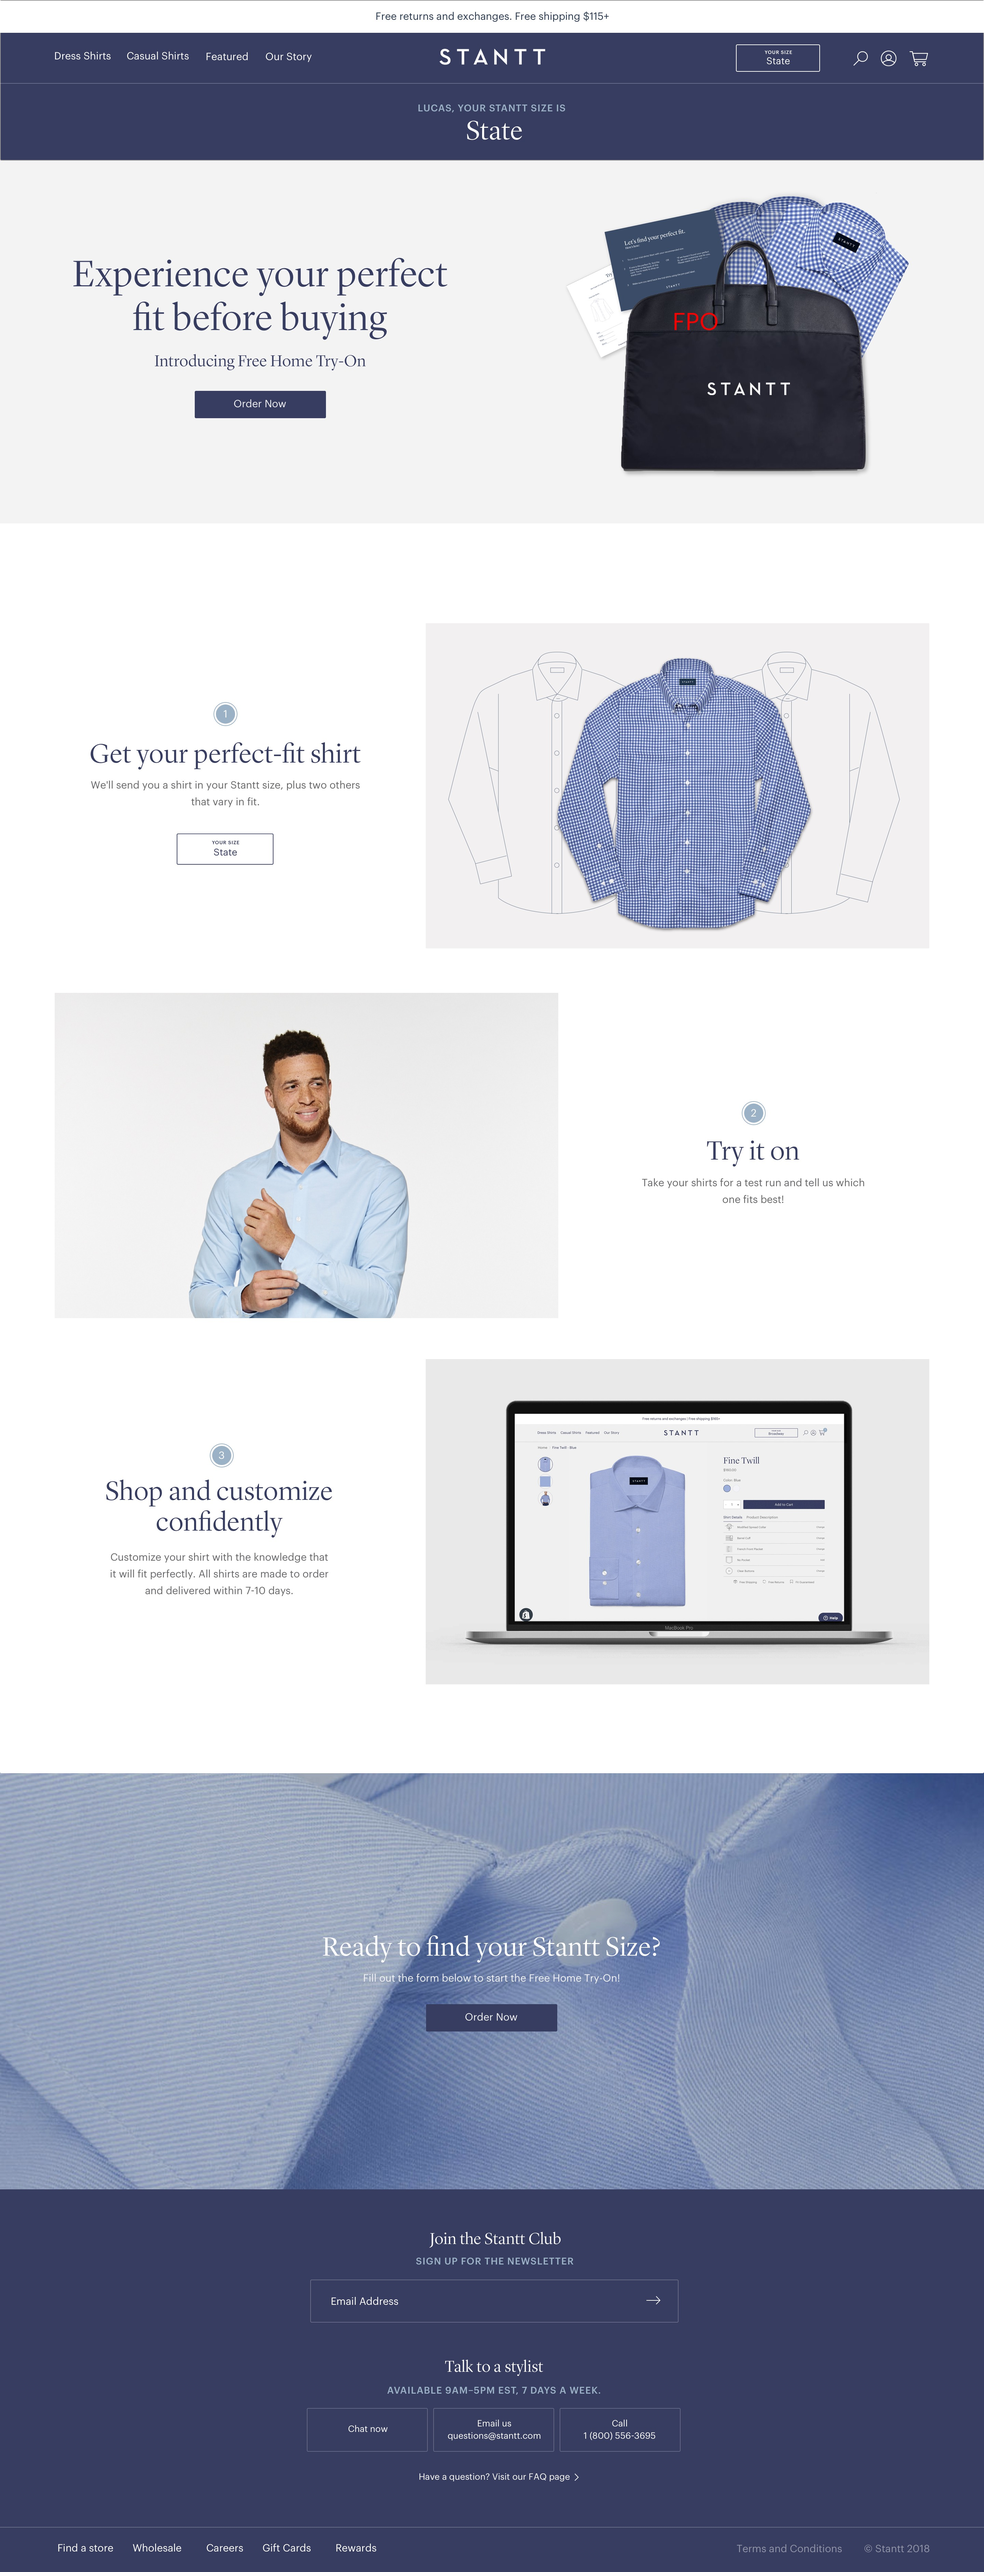
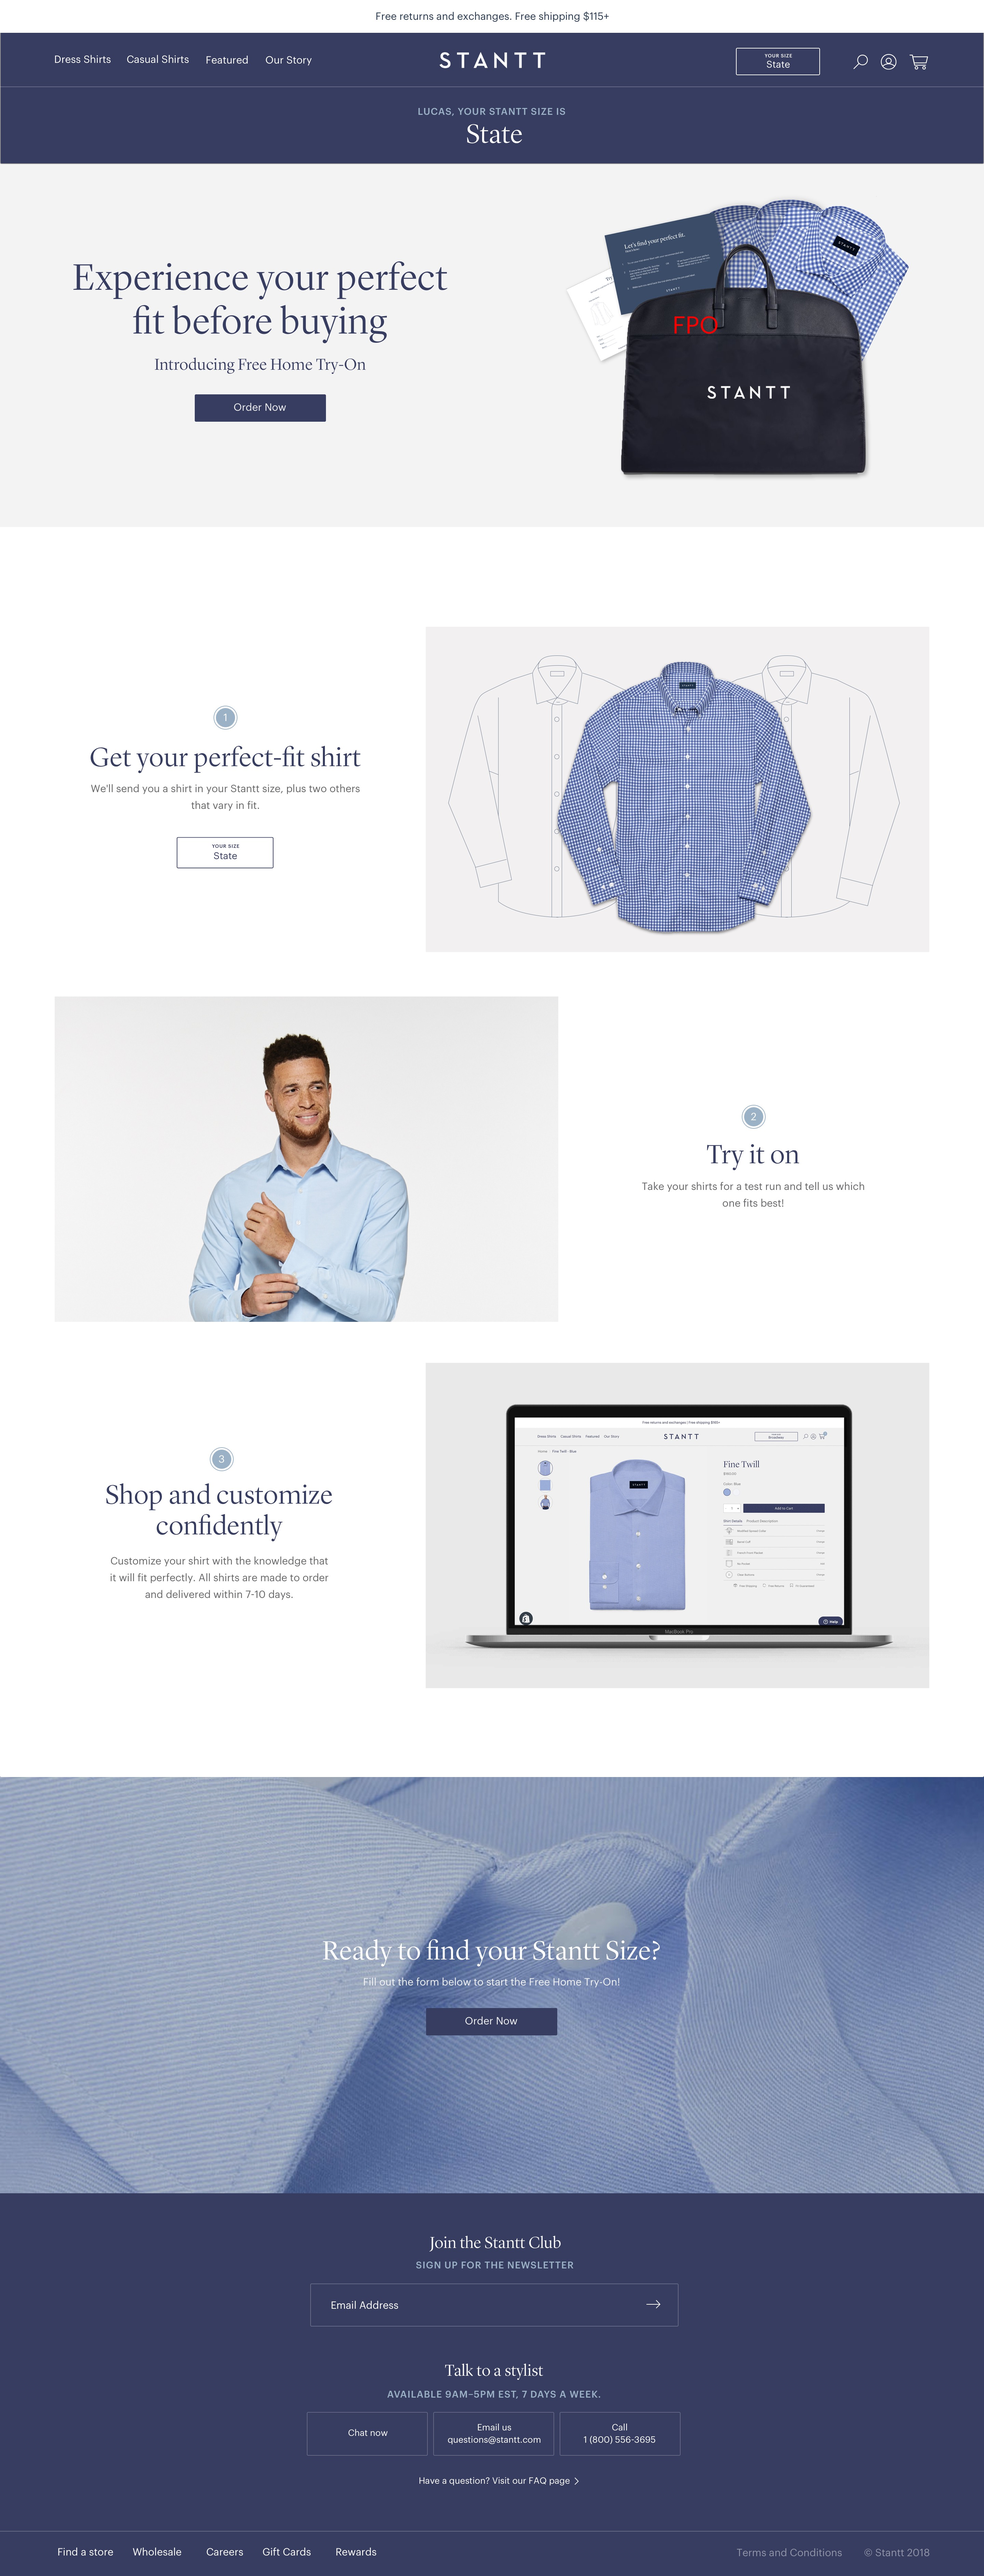
13

diff --git a/stantt_freetryon_quiz/stantt_freetryon_quiz.hyperesources/stanttfreetryonquiz_hype_generated_script.js b/stantt_freetryon_quiz/stantt_freetryon_quiz.hyperesources/stanttfreetryonquiz_hype_generated_script.js
@@ -3,5 +3,5 @@
 (function(){(function k(){function l(a,b,d){var c=!1;null==window[a]&&(null==window[b]?(window[b]=[],window[b].push(k),a=document.getElementsByTagName("head")[0],b=document.createElement("script"),c=h,false==!0&&(c=""),b.type="text/javascript",b.src=c+"/"+d,a.appendChild(b)):window[b].push(k),c=!0);return c}var h="stantt_freetryon_quiz.hyperesources",c="stantt_freetryon_quiz",e="stanttfreetryonquiz_hype_container";if(false==!1)try{for(var f=document.getElementsByTagName("script"),
 a=0;a<f.length;a++){var b=f[a].src,d=null!=b?b.indexOf("/stanttfreetryonquiz_hype_generated_script.js"):-1;if(-1!=d){h=b.substr(0,d);break}}}catch(n){}if(false==!1&&(a=navigator.userAgent.match(/MSIE (\d+\.\d+)/),a=parseFloat(a&&a[1])||null,a=l("HYPE_596","HYPE_dtl_596",!0==(null!=a&&10>a||false==!0)?"HYPE-596.full.min.js":"HYPE-596.thin.min.js"),false==!0&&(a=a||l("HYPE_w_596","HYPE_wdtl_596","HYPE-596.waypoints.min.js")),a))return;f=window.HYPE.documents;
 if(null!=f[c]){b=1;a=c;do c=""+a+"-"+b++;while(null!=f[c]);d=document.getElementsByTagName("div");b=!1;for(a=0;a<d.length;a++)if(d[a].id==e&&null==d[a].getAttribute("HYP_dn")){var b=1,g=e;do e=""+g+"-"+b++;while(null!=document.getElementById(e));d[a].id=e;b=!0;break}if(!1==b)return}b=[];b=[];d={};g={};for(a=0;a<b.length;a++)try{g[b[a].identifier]=b[a].name,d[b[a].name]=eval("(function(){return "+b[a].source+"})();")}catch(m){window.console&&window.console.log(m),d[b[a].name]=
-function(){}}a=new HYPE_596(c,e,{"1":{p:1,n:"02%20%281%29.gif",g:"49",t:"@1x"},"-2":{n:"blank.gif"},"-1":{n:"PIE.htc"},"2":{p:1,n:"Home%20Try-on_Opt1_Sizereveal__2x__2x.jpg",g:"52",t:"@2x"},"0":{p:1,n:"customize.gif",g:"39",t:"@1x"}},h,[],d,[{n:"Untitled Scene",o:"1",X:[0]}],[{o:"3",p:"600px",cA:false,Y:1440,Z:3640,L:[],c:"#FFFFFF",bY:1,d:1440,U:{},T:{kTimelineDefaultIdentifier:{i:"kTimelineDefaultIdentifier",n:"Main Timeline",z:0,b:[],a:[],f:30}},bZ:180,O:["57","54","53","56","55"],n:"Untitled Layout","_":0,v:{"54":{h:"49",p:"no-repeat",x:"visible",a:0,q:"100% 100%",b:-86,j:"absolute",bF:"53",z:1,k:"div",dB:"img",d:612,c:692,r:"inline"},"57":{h:"52",p:"no-repeat",x:"visible",a:-1,q:"100% 100%",b:1,j:"absolute",dB:"img",z:2,k:"div",c:1440.26,d:3643,r:"inline"},"53":{k:"div",x:"hidden",c:692,d:509,z:3,a:748,j:"absolute",b:229},"56":{h:"39",p:"no-repeat",x:"visible",a:-18,q:"100% 100%",b:-3,j:"absolute",bF:"55",z:1,k:"div",dB:"img",d:450,c:765,r:"inline"},"55":{k:"div",x:"hidden",c:726,d:443,z:9,a:628,j:"absolute",b:1936}}}],{},g,{},null,false,true,-1,true,true,false,true);f[c]=a.API;document.getElementById(e).setAttribute("HYP_dn",
+function(){}}a=new HYPE_596(c,e,{"1":{p:1,n:"02%20%281%29.gif",g:"49",t:"@1x"},"-2":{n:"blank.gif"},"-1":{n:"PIE.htc"},"2":{p:1,n:"Home%20Try-on_Opt1_Sizereveal__2x__2x.jpg",g:"52",t:"@2x"},"0":{p:1,n:"customize.gif",g:"39",t:"@1x"}},h,[],d,[{n:"Untitled Scene",o:"1",X:[0]}],[{o:"3",p:"600px",cA:false,Y:1440,Z:3640,L:[],c:"#FFFFFF",bY:1,d:1440,U:{},T:{kTimelineDefaultIdentifier:{i:"kTimelineDefaultIdentifier",n:"Main Timeline",z:0,b:[],a:[],f:30}},bZ:180,O:["57","54","53","56","55"],n:"Untitled Layout","_":0,v:{"54":{h:"49",p:"no-repeat",x:"visible",a:0,q:"100% 100%",b:-86,j:"absolute",bF:"53",z:1,k:"div",dB:"img",d:612,c:692,r:"inline"},"57":{h:"52",p:"no-repeat",x:"visible",a:-1,q:"100% 100%",b:1,j:"absolute",dB:"img",z:2,k:"div",c:1440.26,d:3643,r:"inline"},"53":{k:"div",x:"hidden",c:692,d:509,z:3,a:748,j:"absolute",b:235},"56":{h:"39",p:"no-repeat",x:"visible",a:-18,q:"100% 100%",b:-3,j:"absolute",bF:"55",z:1,k:"div",dB:"img",d:450,c:765,r:"inline"},"55":{k:"div",x:"hidden",c:726,d:443,z:9,a:628,j:"absolute",b:1937}}}],{},g,{},null,false,true,-1,true,true,false,true);f[c]=a.API;document.getElementById(e).setAttribute("HYP_dn",
 c);a.z_o(this.body)})();})();

diff --git a/stantt_freetryon_quiz/index.html b/stantt_freetryon_quiz/index.html
@@ -24,7 +24,7 @@
 	<!-- copy these lines to your document: -->
 
 	<div id="stanttfreetryonquiz_hype_container" style="margin:auto;position:relative;width:1440px;height:3640px;overflow:hidden;">
-		<script type="text/javascript" charset="utf-8" src="stantt_freetryon_quiz.hyperesources/stanttfreetryonquiz_hype_generated_script.js?53833"></script>
+		<script type="text/javascript" charset="utf-8" src="stantt_freetryon_quiz.hyperesources/stanttfreetryonquiz_hype_generated_script.js?62744"></script>
 	</div>
 
 	<!-- end copy -->
